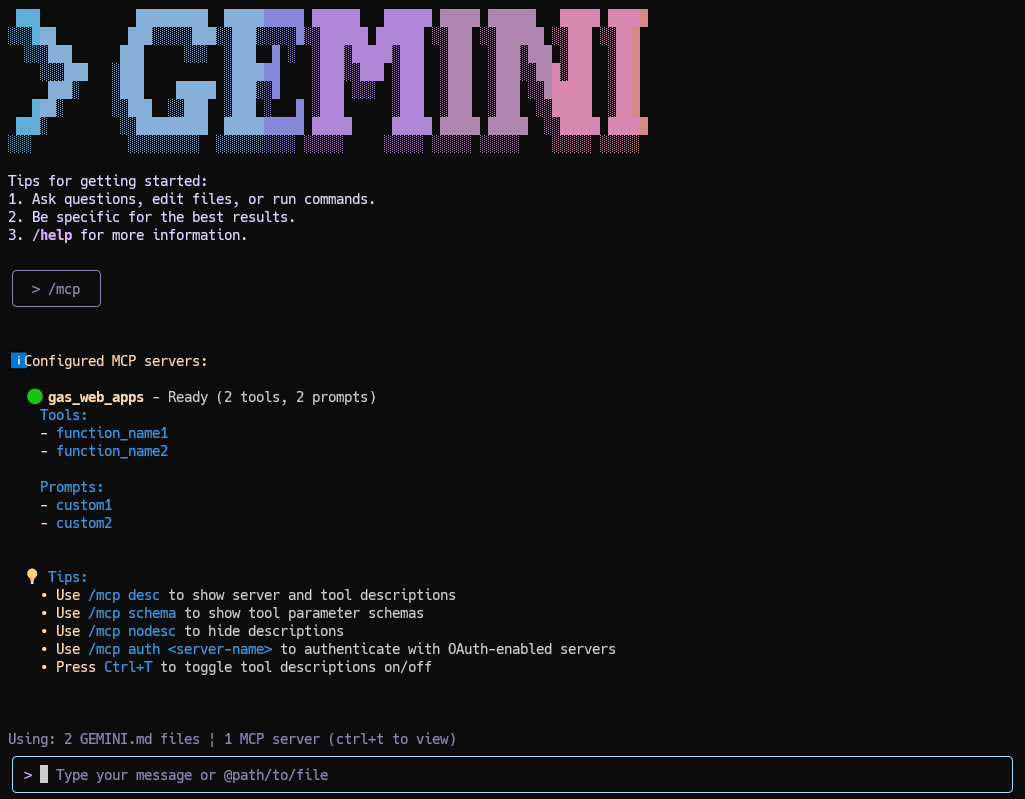
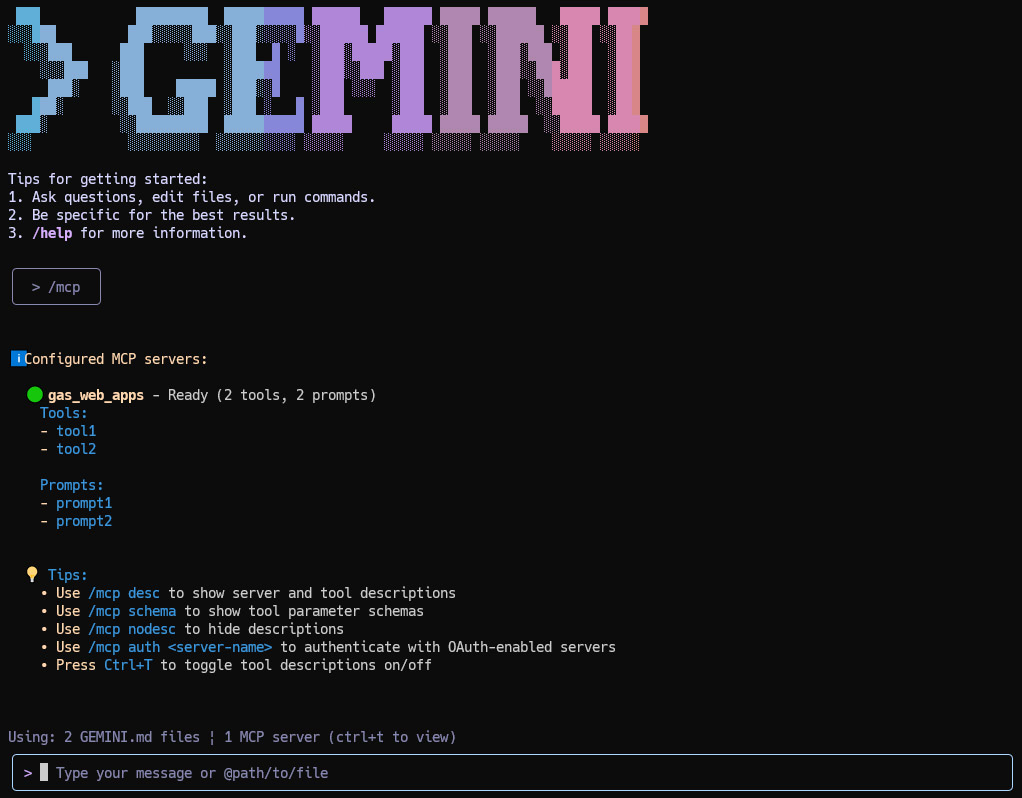
Modified

diff --git a/README.md b/README.md
@@ -274,7 +274,7 @@ You might have a case where you are required to simply test the MCP server. At t
 function doPost(eventObject) {
   const functions = {
     params_: {
-      function_name1: {
+      tool1: {
         description: "Use this for testing a tool 1 of MCP server.",
         parameters: {
           type: "object",
@@ -282,7 +282,7 @@ function doPost(eventObject) {
           required: ["sample"]
         }
       },
-      function_name2: {
+      tool2: {
         description: "Use this for testing a tool 2 of MCP server.",
         parameters: {
           type: "object",
@@ -292,8 +292,8 @@ function doPost(eventObject) {
       }
     },
 
-    function_name1: (object) => object,
-    function_name2: (object) => object,
+    tool1: (object) => object,
+    tool2: (object) => object,
   };
 
   const items = [
@@ -317,19 +317,19 @@ function doPost(eventObject) {
       })),
 
     {
-      "type": "prompts/list",
-      "value": {
-        "prompts": [
+      type: "prompts/list",
+      value: {
+        prompts: [
           {
-            name: "custom1",
-            description: "Custom 1",
+            name: "prompt1",
+            description: "Custom prompt 1",
             arguments: [
               { name: "sample1", description: "sample1", required: true },
             ],
           },
           {
-            name: "custom2",
-            description: "Custom 2",
+            name: "prompt2",
+            description: "Custom prompt 2",
             arguments: [
               { name: "sample2", description: "sample2", required: true },
             ],
@@ -339,28 +339,28 @@ function doPost(eventObject) {
     },
 
     {
-      "type": "prompts/get",
-      "value": {
-        "custom1": {
-          description: "Custom1",
+      type: "prompts/get",
+      value: {
+        prompt1: {
+          description: "Custom prompt 1",
           messages: [
             {
               role: "user",
               content: {
                 type: "text",
-                text: "Custom1",
+                text: "Custom prompt 1",
               },
             },
           ],
         },
-        "custom2": {
-          description: "Custom2",
+        prompt2: {
+          description: "Custom prompt 2",
           messages: [
             {
               role: "user",
               content: {
                 type: "text",
-                text: "Custom2",
+                text: "Custom prompt 2",
               },
             },
           ],
